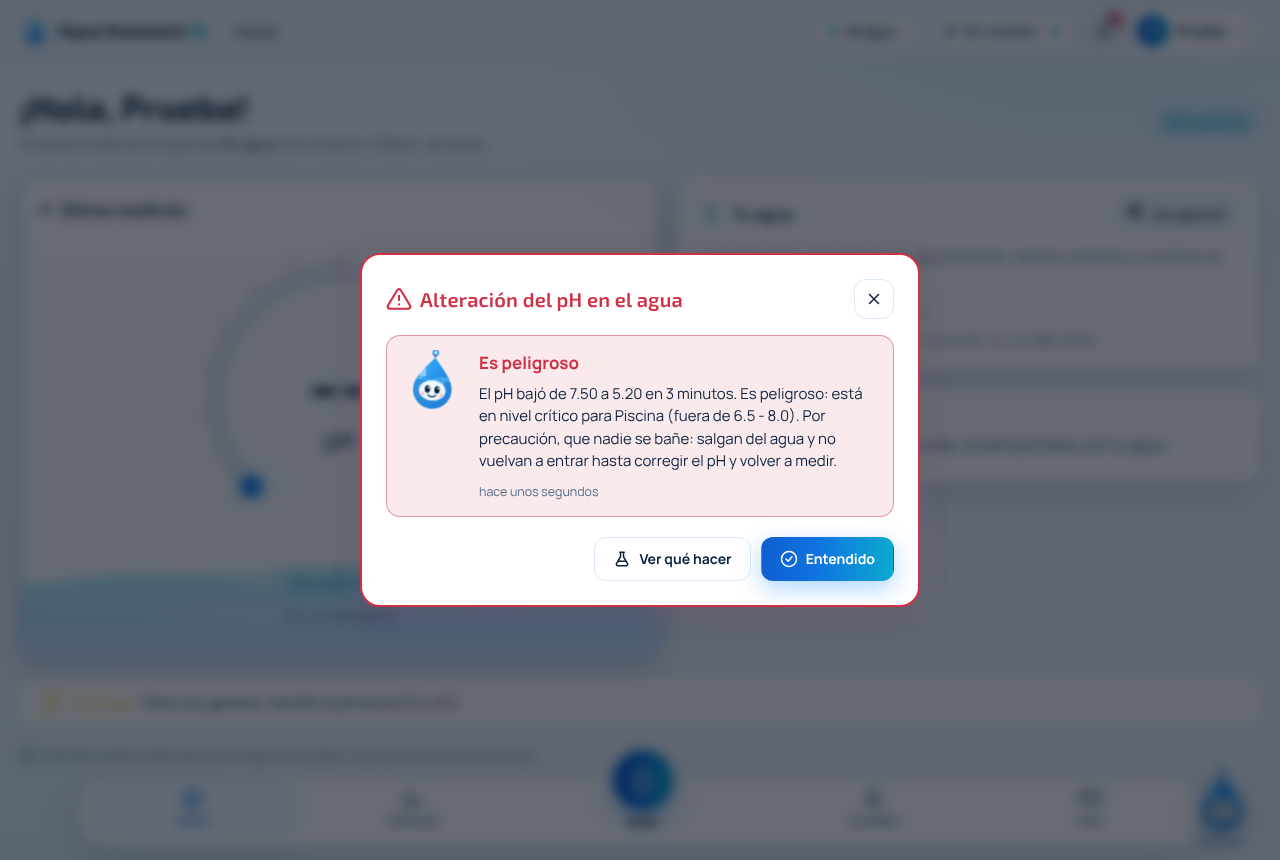
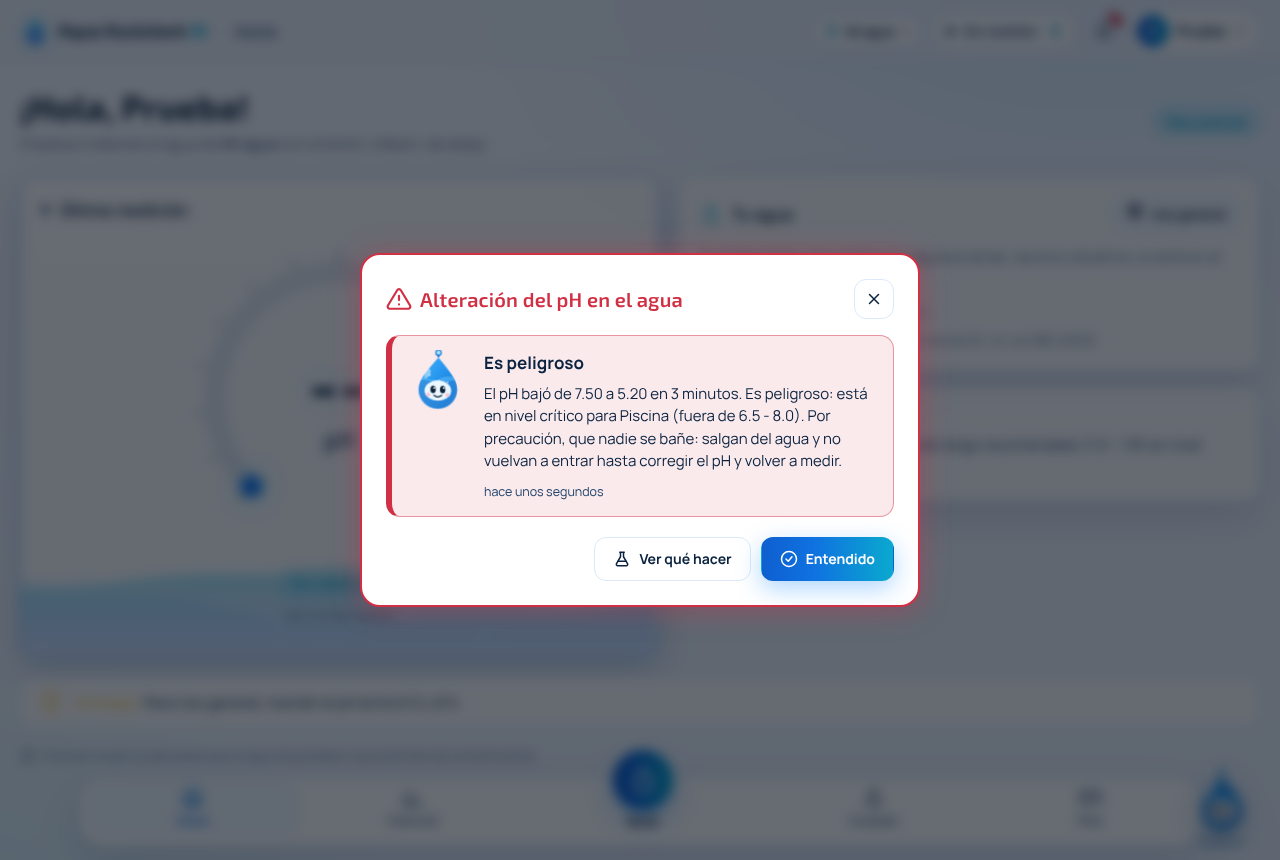
MockUp48 con el contraste corregido y axe en la ventana de alarma
La ventana de alarma y Configuración (computador y celular) pasan axe-core sin hallazgos.

Changed region(s): [[0.2812, 0.393, 0.6875, 0.6047]]

diff --git a/docs/Requerimientos.md b/docs/Requerimientos.md
@@ -720,7 +720,7 @@ Estado: **Hecho** = implementado y probado en la aplicación publicada; **Parcia
 
 **Como** usuario de computador o celular, **quiero** una interfaz clara que funcione en cualquier pantalla, **para** usarla cómodamente donde esté.
 
-**Descripción.** Navegación con una barra inferior con su ícono: Inicio, Historial, Medir, Cuidado y Plan para las personas, e Inicio, Historial, Medir, Plan y Admin para el administrador (que abre Cuidado desde el botón del lugar); igual en celular y computador. Arriba, el botón del lugar cambia de lugar y lleva a «Crear, editar o compartir lugares» (con los Perfiles de uso); el menú de la cuenta tiene «Mi cuenta», «Configuración» (con Medidor y Actividad y sesiones) y «Cerrar sesión», y solo un menú de arriba está abierto a la vez. Los Datos oficiales están en la Biblioteca normativa de Aqua. Las funciones de Aqua se agrupan en «Analizar mi agua», «Más herramientas» y «Análisis avanzado»; «Consumo y costos» es solo para administradores. Aqua saluda «Hola, (nombre)» la primera vez que se abre en cada sesión y después con frases cortas al azar. Tema claro predeterminado y oscuro (negros, blancos y grises, con brillos cian), que también se elige antes de iniciar sesión. La sesión se cierra solo desde el menú del usuario (la inicial o el nombre, arriba a la derecha). Navegación por teclado y lector de pantalla. Revisión con axe-core (19 nov 2026): 0 hallazgos en 35 pantallas y vistas (acceso, registro, recorrido, panel y chat de Aqua, hoja «Medir», menús de la cuenta y del lugar, y todas las pantallas), en tema claro y oscuro, en computador y teléfono.
+**Descripción.** Navegación con una barra inferior con su ícono: Inicio, Historial, Medir, Cuidado y Plan para las personas, e Inicio, Historial, Medir, Plan y Admin para el administrador (que abre Cuidado desde el botón del lugar); igual en celular y computador. Arriba, el botón del lugar cambia de lugar y lleva a «Crear, editar o compartir lugares» (con los Perfiles de uso); el menú de la cuenta tiene «Mi cuenta», «Configuración» (con Medidor y Actividad y sesiones) y «Cerrar sesión», y solo un menú de arriba está abierto a la vez. Los Datos oficiales están en la Biblioteca normativa de Aqua. Las funciones de Aqua se agrupan en «Analizar mi agua», «Más herramientas» y «Análisis avanzado»; «Consumo y costos» es solo para administradores. Aqua saluda «Hola, (nombre)» la primera vez que se abre en cada sesión y después con frases cortas al azar. Tema claro predeterminado y oscuro (negros, blancos y grises, con brillos cian), que también se elige antes de iniciar sesión. La sesión se cierra solo desde el menú del usuario (la inicial o el nombre, arriba a la derecha). Navegación por teclado y lector de pantalla. Revisión con axe-core (19 nov 2026): 0 hallazgos en 36 pantallas y vistas (acceso, registro, recorrido, panel y chat de Aqua, hoja «Medir», menús de la cuenta y del lugar, ventana de alarma y todas las pantallas), en tema claro y oscuro, en computador y teléfono.
 
 **Criterios de aceptación**
 

diff --git a/docs/issues/34-RNF-04.md b/docs/issues/34-RNF-04.md
@@ -7,7 +7,7 @@
 
 ## Descripción
 
-Navegación con una barra inferior con su ícono: Inicio, Historial, Medir, Cuidado y Plan para las personas, e Inicio, Historial, Medir, Plan y Admin para el administrador (que abre Cuidado desde el botón del lugar); igual en celular y computador. Arriba, el botón del lugar cambia de lugar y lleva a «Crear, editar o compartir lugares» (con los Perfiles de uso); el menú de la cuenta tiene «Mi cuenta», «Configuración» (con Medidor y Actividad y sesiones) y «Cerrar sesión», y solo un menú de arriba está abierto a la vez. Los Datos oficiales están en la Biblioteca normativa de Aqua. Las funciones de Aqua se agrupan en «Analizar mi agua», «Más herramientas» y «Análisis avanzado»; «Consumo y costos» es solo para administradores. Aqua saluda «Hola, (nombre)» la primera vez que se abre en cada sesión y después con frases cortas al azar. Tema claro predeterminado y oscuro (negros, blancos y grises, con brillos cian), que también se elige antes de iniciar sesión. La sesión se cierra solo desde el menú del usuario (la inicial o el nombre, arriba a la derecha). Navegación por teclado y lector de pantalla. Revisión con axe-core (19 nov 2026): 0 hallazgos en 35 pantallas y vistas (acceso, registro, recorrido, panel y chat de Aqua, hoja «Medir», menús de la cuenta y del lugar, y todas las pantallas), en tema claro y oscuro, en computador y teléfono.
+Navegación con una barra inferior con su ícono: Inicio, Historial, Medir, Cuidado y Plan para las personas, e Inicio, Historial, Medir, Plan y Admin para el administrador (que abre Cuidado desde el botón del lugar); igual en celular y computador. Arriba, el botón del lugar cambia de lugar y lleva a «Crear, editar o compartir lugares» (con los Perfiles de uso); el menú de la cuenta tiene «Mi cuenta», «Configuración» (con Medidor y Actividad y sesiones) y «Cerrar sesión», y solo un menú de arriba está abierto a la vez. Los Datos oficiales están en la Biblioteca normativa de Aqua. Las funciones de Aqua se agrupan en «Analizar mi agua», «Más herramientas» y «Análisis avanzado»; «Consumo y costos» es solo para administradores. Aqua saluda «Hola, (nombre)» la primera vez que se abre en cada sesión y después con frases cortas al azar. Tema claro predeterminado y oscuro (negros, blancos y grises, con brillos cian), que también se elige antes de iniciar sesión. La sesión se cierra solo desde el menú del usuario (la inicial o el nombre, arriba a la derecha). Navegación por teclado y lector de pantalla. Revisión con axe-core (19 nov 2026): 0 hallazgos en 36 pantallas y vistas (acceso, registro, recorrido, panel y chat de Aqua, hoja «Medir», menús de la cuenta y del lugar, ventana de alarma y todas las pantallas), en tema claro y oscuro, en computador y teléfono.
 
 ## Criterios de aceptación
 

diff --git a/README.md b/README.md
@@ -63,7 +63,7 @@ Presentar la información y recoger las acciones del usuario. **Toda la lógica 
 - **Asistente**: "Descargar" guarda la conversación como texto, con las fuentes de cada respuesta.
 - **Sesión y conexión**: avisa 5 minutos antes de que venza la sesión y, al vencer, vuelve al inicio de sesión sin esperar a que falle una petición. Sin internet, una franja lo indica hasta que vuelve la conexión.
 - **Errores inesperados**: si algo falla sin que la pantalla lo maneje, aparece un aviso en lugar de no pasar nada.
-- **Accesibilidad**: enlace "Saltar al contenido" como primera parada del teclado; revisada con axe-core en 35 pantallas y vistas, en tema claro y oscuro, en computador y en teléfono, sin hallazgos (19 nov 2026). Incluye:
+- **Accesibilidad**: enlace "Saltar al contenido" como primera parada del teclado; revisada con axe-core en 36 pantallas y vistas (también la ventana de alarma), en tema claro y oscuro, en computador y en teléfono, sin hallazgos (19 nov 2026). Incluye:
   - región principal y encabezado en cada pantalla, también en el teléfono, donde el título de la barra superior queda oculto a la vista pero se lee;
   - niveles de encabezado en orden y foco atrapado dentro de los diálogos (Escape cierra solo el de arriba);
   - selectores de periodo anunciados como grupos de botones con su opción marcada;
